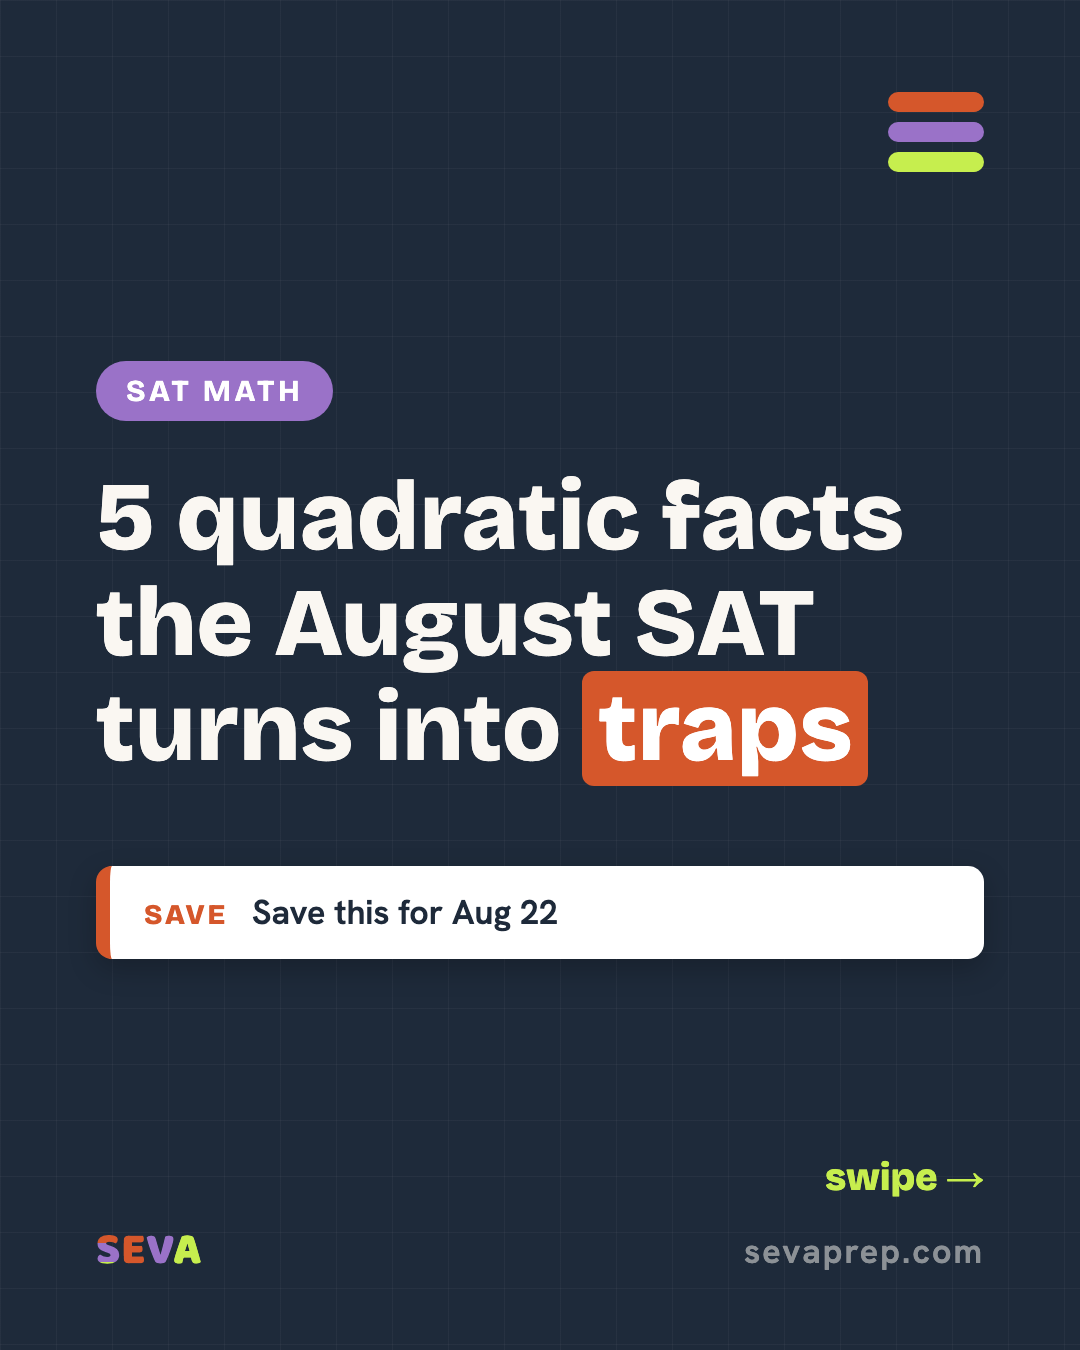
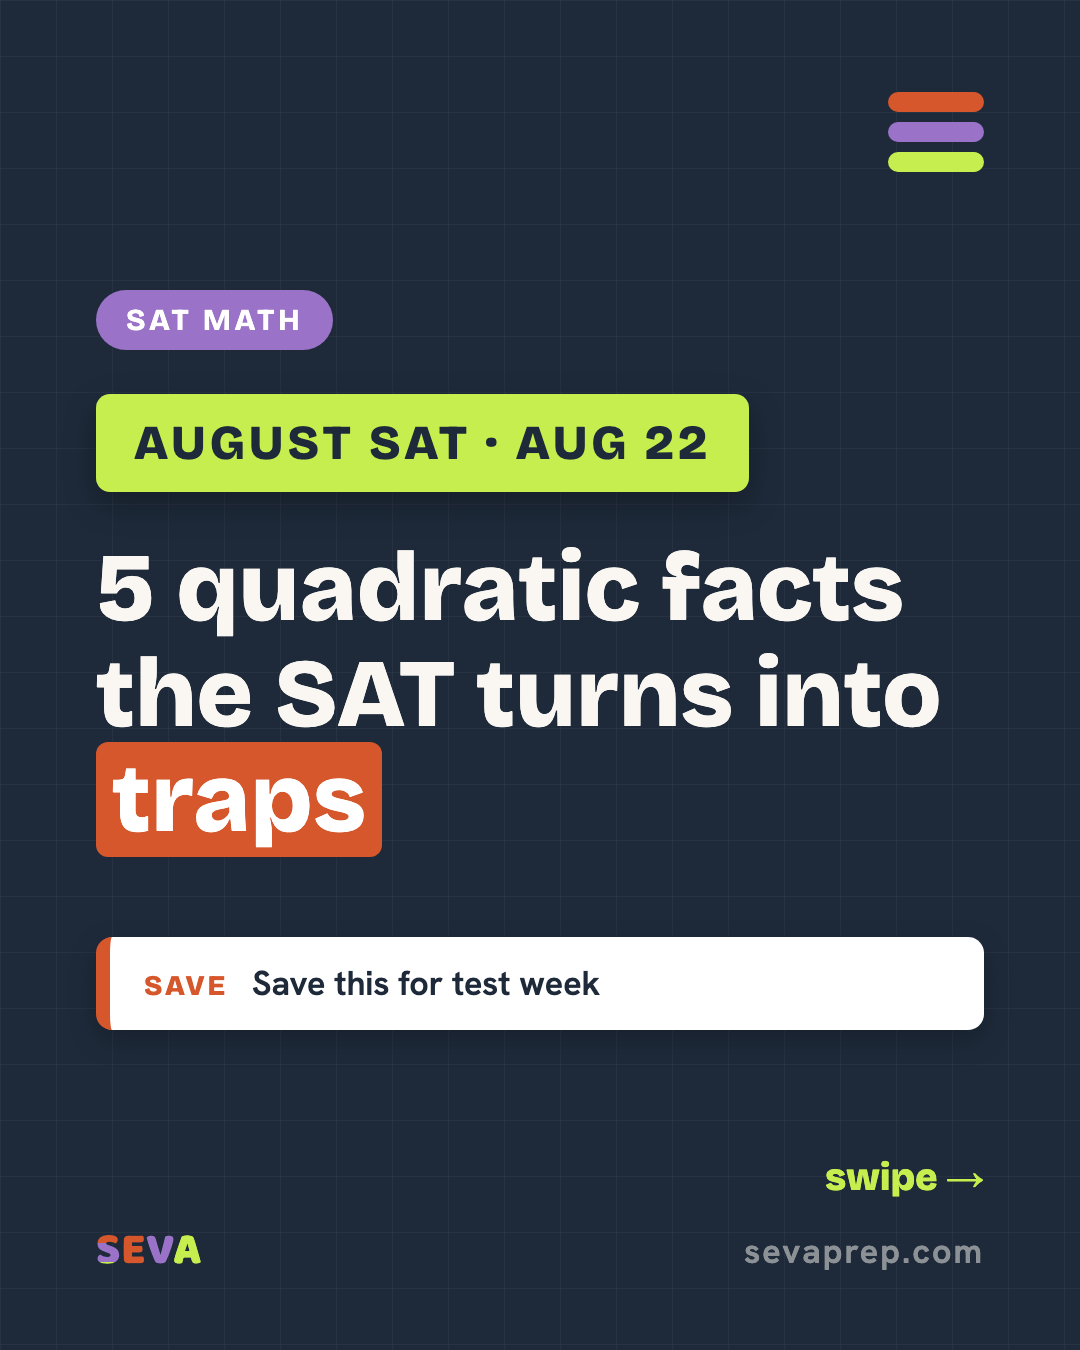
marketing: lime 'August SAT · Aug 22' date-stamp plate on carousel covers
Titles revert to topic-only; the test date gets its own standout element
(new optional cover 'stamp' field) between the subject chip and the title.

Changed region(s): [[0.0917, 0.2178, 0.9167, 0.7778]]

diff --git a/marketing/carousel-generator/README.md b/marketing/carousel-generator/README.md
@@ -20,7 +20,7 @@ Slide types:
 
 | type | fields | use for |
 |---|---|---|
-| `cover` | eyebrow, title, badge? | searchable hook + save-bait |
+| `cover` | eyebrow, title, badge?, stamp? | searchable hook + save-bait; stamp renders the lime test-date plate ("August SAT · Aug 22") |
 | `formula` | eyebrow, title, formula, cases? `[["D > 0","two real solutions"]]`, tip? | formula slides (saves) |
 | `rule` | eyebrow, title, words?, body, tip? | R&W rules / word lists |
 | `trap` | eyebrow, title, formula?, body, tip? | the Seva angle — why students miss it |
